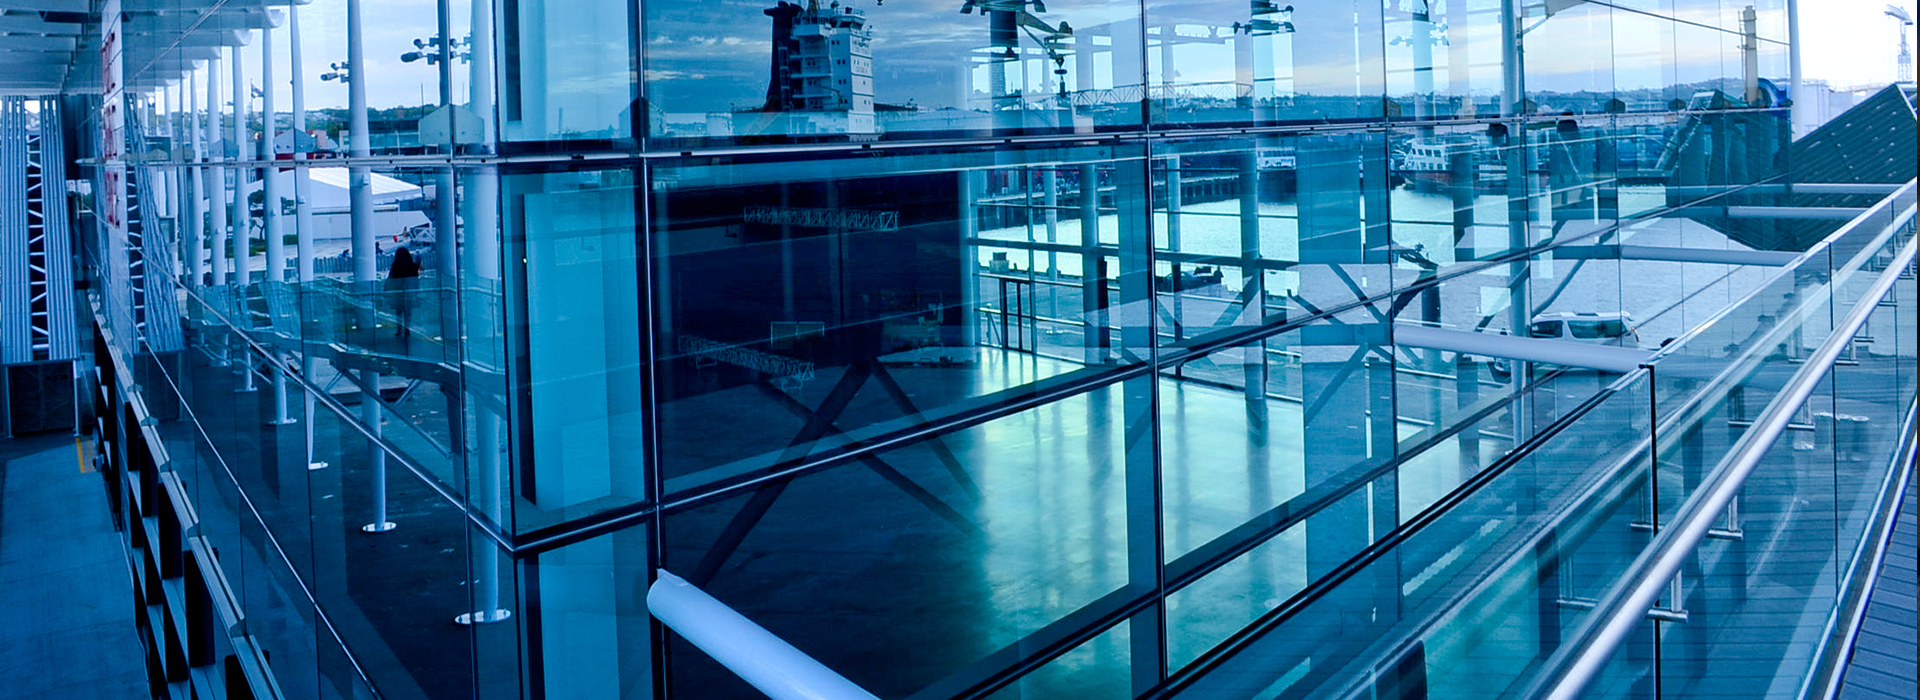
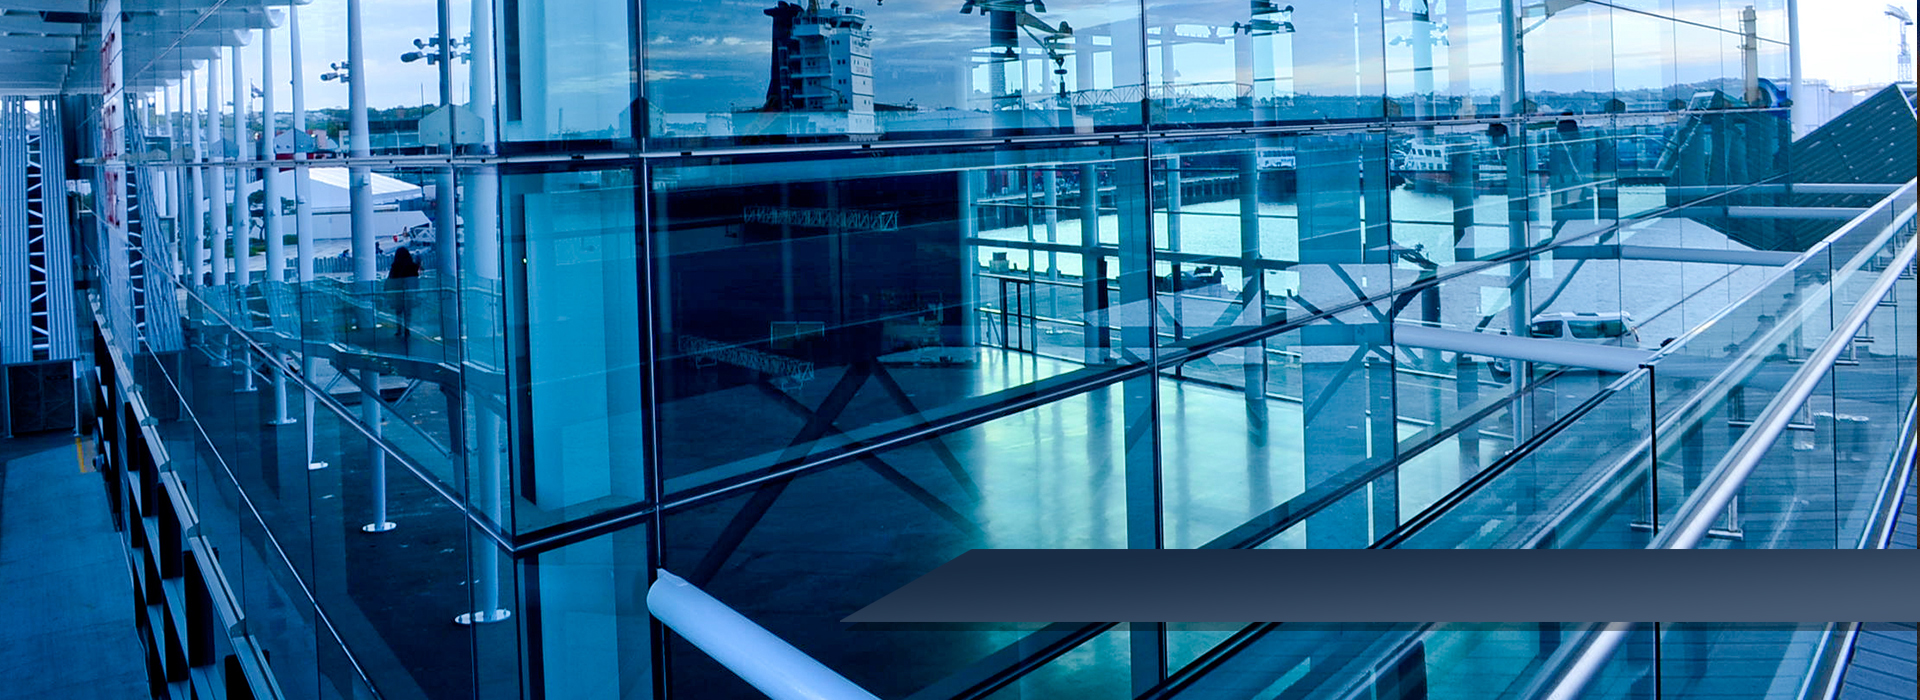
img

Changed region(s): [[0.4375, 0.78, 1.0, 0.9]]

diff --git a/index.html b/index.html
@@ -6,7 +6,7 @@
 		<meta charset="utf-8">
 		<meta http-equiv="X-UA-Compatible" content="IE=edge">	
 
-		<title>Demo Construction | Porto - Responsive HTML5 Template 5.7.2</title>	
+		<title>Ed-wa Demo</title>	
 
 		<meta name="keywords" content="HTML5 Template" />
 		<meta name="description" content="Porto - Responsive HTML5 Template">
@@ -158,7 +158,7 @@
 									class="rev-slidebg">
 								
 								<div class="tp-caption top-label tp-caption-custom-stripe"
-									data-x="right" data-hoffset="180"
+									data-x="right" data-hoffset="-50"
 									data-y="bottom" data-voffset="100"
 									data-start="1000"
 									data-transform_in="x:[100%];opacity:0;s:1000;">MODERN OCH FRAMTIDSSÄKER FABRIKSTILLVERKNING</div>
